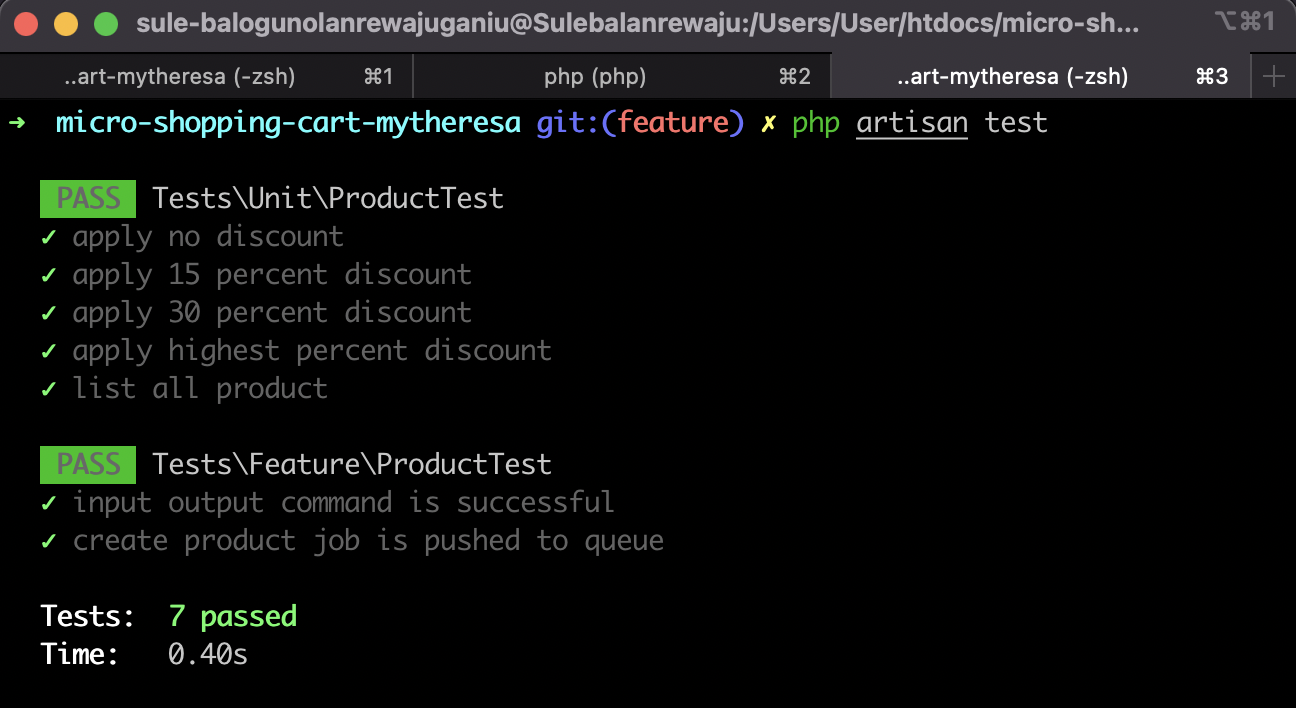
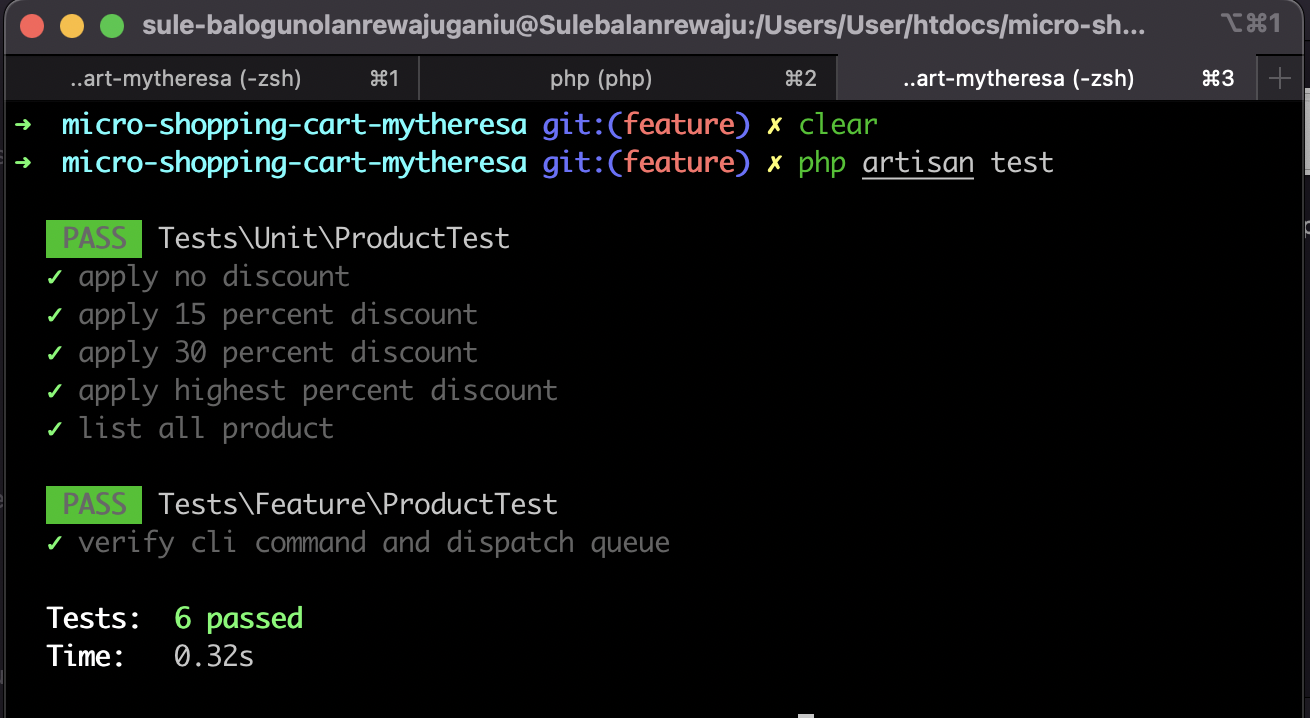
update readme and feature test

diff --git a/tests/Feature/ProductTest.php b/tests/Feature/ProductTest.php
@@ -17,17 +17,15 @@ class ProductTest extends TestCase
      * @return void
      */
 
-    public function test_input_output_command_is_successful()
+    public function test_verify_cli_command_and_dispatch_queue()
     {
         $this->artisan('command:read-and-create-product')
                 ->expectsQuestion('Enter preferred product file path', FileLocationEnum::CONFIG->value)
                 ->assertSuccessful();
-    }
-
-    public function test_create_product_job_is_pushed_to_queue()
-    {
+                
         Queue::fake();
         CreateProductJob::dispatch(config('shopping-list')['products']);
         Queue::assertPushed(CreateProductJob::class);
     }
+
 }

diff --git a/README.md b/README.md
@@ -36,7 +36,7 @@ The repository contains source code on how to run the execute the Product Restfu
 
 <li> Single CLI command to automate the read and write process with easy to read instructions </li>
 
-<li> The project has a total of 2 test cases (1 Unit and 1 Feature) </li> <br>
+<li> The project has a total of 6 test cases (5 Unit and 1 Feature) </li> <br>
 
 ![Screenshot of test cases ](https://github.com/LarrySul/cli-restful-api-product-app/blob/feature/public/screenshots/test.png)
 
